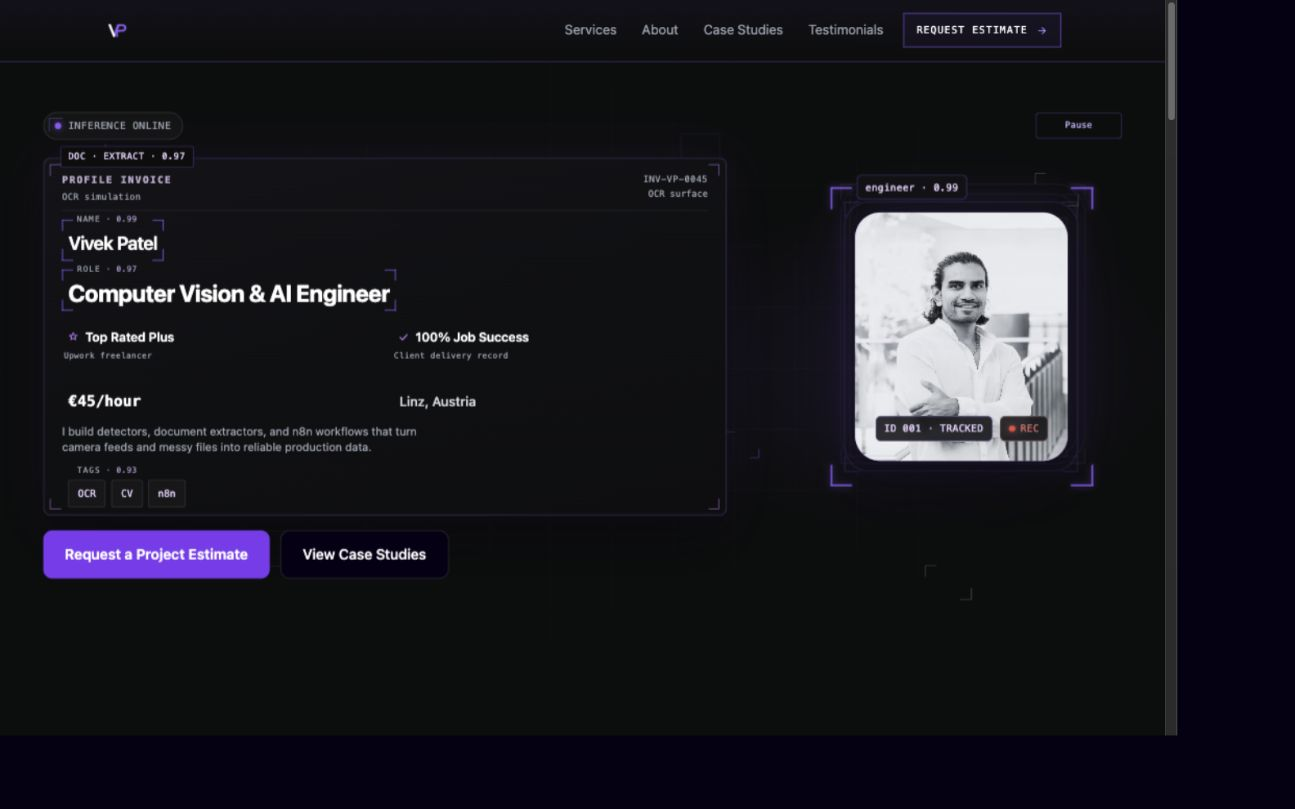
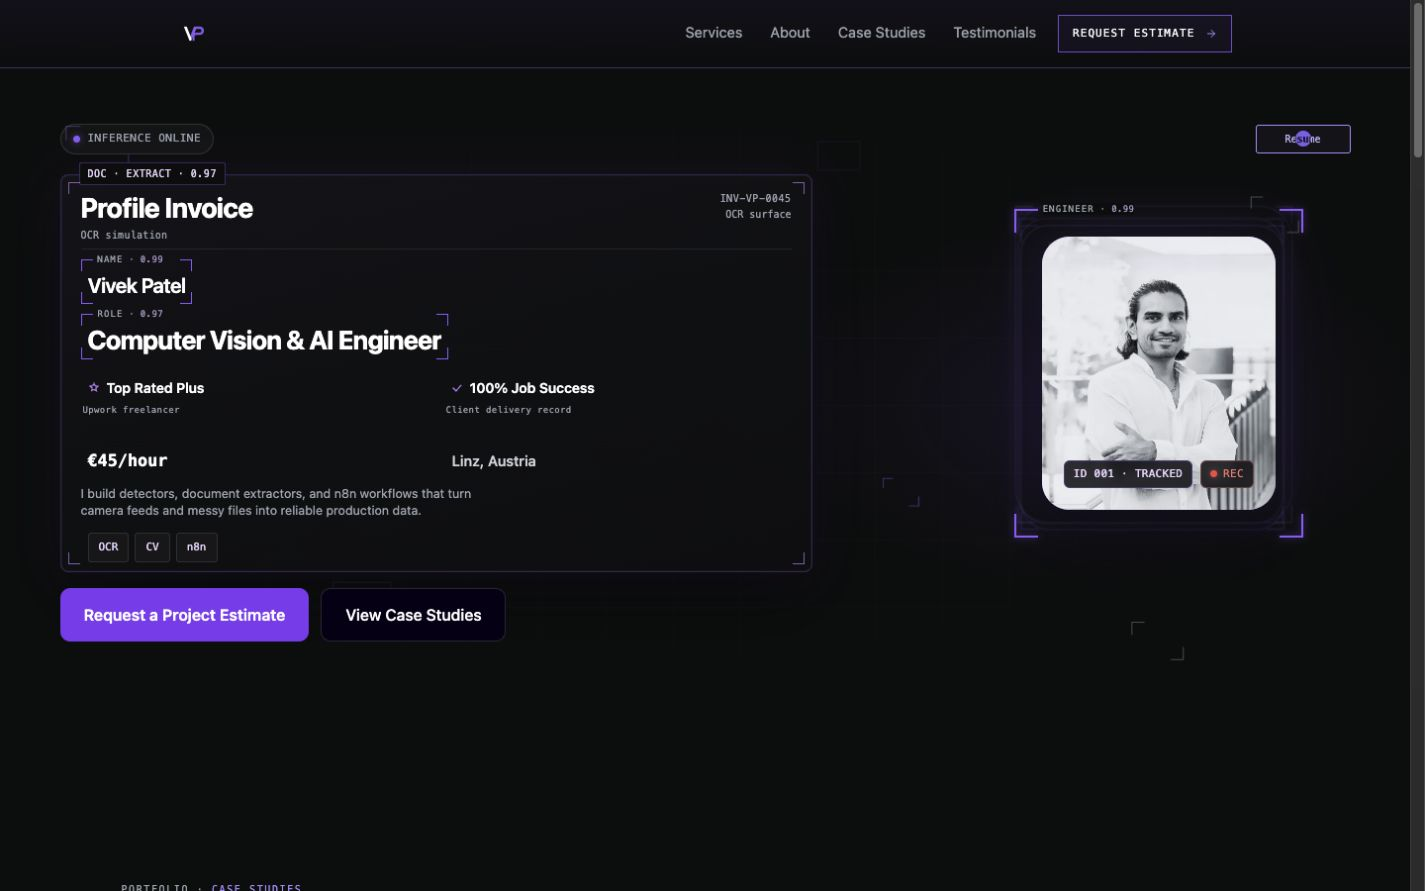
fix(hero): clarify invoice title and static annotations

diff --git a/tests/qa/qa-hero-ocr-labels.spec.js b/tests/qa/qa-hero-ocr-labels.spec.js
@@ -7,7 +7,6 @@ const expectedLabels = [
   'Success · 0.96',
   'Rate · 0.95',
   'Location · 0.94',
-  'Tags · 0.93',
 ];
 
 const selections = [
@@ -42,6 +41,11 @@ for (const { width, height } of viewports) {
       await page.clock.pauseAt(new Date('2026-10-03T08:00:01Z'));
       const invoice = page.getByRole('article', { name: 'Profile invoice field parse' });
       await expect(invoice.getByText('OCR simulation', { exact: true })).toBeVisible();
+      await expect(page.getByRole('heading', { level: 1 })).toHaveCount(1);
+      await expect(invoice.getByText('Tags · 0.93', { exact: true })).toHaveCount(0);
+      for (const tag of ['OCR', 'CV', 'n8n']) await expect(invoice.getByText(tag, { exact: true })).toBeVisible();
+      const titleSize = await invoice.getByText('Profile Invoice', { exact: true }).evaluate((title) => Number.parseFloat(getComputedStyle(title).fontSize));
+      expect(titleSize).toBeGreaterThanOrEqual(width >= 1024 ? 28 : 20);
       const hero = page.locator('section[data-hero-highlight-index]');
       await expect(hero).toHaveAttribute('data-hero-highlight-index', '0');
       await page.getByRole('button', { name: 'Pause highlights', exact: true }).click();
@@ -72,7 +76,7 @@ for (const { width, height } of viewports) {
         };
       }));
 
-      expect(measurements).toHaveLength(7);
+      expect(measurements).toHaveLength(6);
       expect(measurements.filter((field) => field.highlighted).map((field) => field.id).sort()).toEqual([...selected].sort());
       for (const field of measurements) {
         expect(field.leftClearance, `${field.id} left stroke clearance`).toBeCloseTo(17, 1);
@@ -80,13 +84,10 @@ for (const { width, height } of viewports) {
         expect(field.valueGap, `${field.id} value stays below label`).toBeGreaterThanOrEqual(1.9);
         expect(field.valueLeft, `${field.id} value inside left frame`).toBeGreaterThanOrEqual(6.9);
         expect(field.valueRight, `${field.id} value inside right frame`).toBeGreaterThanOrEqual(6.9);
-        if (field.id !== 'tags') {
-          expect(field.columnLeft, `${field.id} stays in its column`).toBeGreaterThanOrEqual(-0.1);
-          expect(field.columnRight, `${field.id} stays in its column`).toBeGreaterThanOrEqual(-0.1);
-        }
+        expect(field.columnLeft, `${field.id} stays in its column`).toBeGreaterThanOrEqual(-0.1);
+        expect(field.columnRight, `${field.id} stays in its column`).toBeGreaterThanOrEqual(-0.1);
         if (field.highlighted) expect(field.labelCenter).toBeCloseTo(field.cornerTop, 1);
-        expect(field.labelOpacity, `${field.id} annotation visibility`).toBe(selected.includes(field.id) || field.id === 'tags' ? 1 : 0);
-        if (field.id === 'tags') expect(field.highlighted).toBe(false);
+        expect(field.labelOpacity, `${field.id} annotation visibility`).toBe(selected.includes(field.id) ? 1 : 0);
       }
       expect(await page.evaluate(() => document.documentElement.scrollWidth <= innerWidth)).toBe(true);
 
@@ -103,6 +104,8 @@ for (const { width, height } of viewports) {
       expect(labelsAfter).toEqual(labelsBefore);
 
       const portraitTag = page.getByText('engineer · 0.99', { exact: true });
+      const appearance = await portraitTag.evaluate((tag) => ({ border: getComputedStyle(tag).borderTopWidth, radius: getComputedStyle(tag).borderRadius, label: tag.classList.contains('hero-field-label') }));
+      expect(appearance).toEqual({ border: '0px', radius: '0px', label: true });
       const tag = await portraitTag.boundingBox();
       const frame = await portraitTag.locator('..').boundingBox();
       expect(tag.x - frame.x).toBeCloseTo(29, 1);
@@ -156,13 +159,13 @@ test.describe('animated OCR experiment', () => {
       await expect.poll(async () => (await annotationState(page)).filter((field) => field.selected).map((field) => field.labelOpacity), { intervals: [20] }).toEqual([1, 1]);
       const state = await annotationState(page);
       expect(state.filter((field) => field.selected).map((field) => field.id).sort()).toEqual([...selections[index]].sort());
-      expect(state.filter((field) => field.id !== 'tags' && field.labelOpacity > 0)).toHaveLength(2);
+      expect(state.filter((field) => field.labelOpacity > 0)).toHaveLength(2);
       for (const field of state) {
         expect(field.valueOpacity).toBe(1);
-        if (field.id !== 'tags') expect(field.cornerOpacity).toBeCloseTo(field.labelOpacity, 2);
+        expect(field.cornerOpacity).toBeCloseTo(field.labelOpacity, 2);
       }
       expect(await fieldBounds(page)).toEqual(initialBounds);
-      await expect(page.locator('.hero-field-label')).toHaveText(expectedLabels);
+      await expect(page.locator('article .hero-field-label')).toHaveText(expectedLabels);
     }
     const sampled = await page.evaluate(() => {
       window.__heroPairProbe.active = false;
@@ -201,7 +204,7 @@ test('annotation controls freeze, resume, and honor reduced motion and offscreen
   await expect(hero).toHaveAttribute('data-hero-highlights', 'paused');
   await page.clock.runFor(10000);
   await expect(hero).toHaveAttribute('data-hero-highlight-index', '0');
-  await expect(page.locator('.hero-field-label')).toHaveText(expectedLabels);
+  await expect(page.locator('article .hero-field-label')).toHaveText(expectedLabels);
 
   await page.emulateMedia({ reducedMotion: 'no-preference' });
   await page.getByRole('contentinfo').scrollIntoViewIfNeeded();

diff --git a/src/components/Hero.test.jsx b/src/components/Hero.test.jsx
@@ -128,7 +128,7 @@ describe('Hero invoice proof fold (#176)', () => {
   it('hides decorative portrait tracking chips from assistive technology', () => {
     renderHero();
 
-    ['engineer · 0.99', 'ID 001 · TRACKED', 'REC'].forEach((label) => {
+    ['engineer', 'ID 001 · TRACKED', 'REC'].forEach((label) => {
       expect(screen.getByText(label, { exact: true }).closest('[aria-hidden="true"]')).toBeTruthy();
     });
   });
@@ -155,7 +155,6 @@ describe('Hero illustrative OCR labels (#297)', () => {
     success: ['Success', '0.96'],
     rate: ['Rate', '0.95'],
     location: ['Location', '0.94'],
-    tags: ['Tags', '0.93'],
   };
 
   it('attaches the fixed label and decorative score to each field', () => {
@@ -171,7 +170,9 @@ describe('Hero illustrative OCR labels (#297)', () => {
     });
     expect(screen.getByText('OCR simulation', { exact: true })).toBeTruthy();
     expect(container.querySelectorAll('.invoice-field-corners')).toHaveLength(2);
-    expect(container.querySelector('[data-hero-field="tags"]').classList.contains('invoice-field-corners')).toBe(false);
+    expect(container.querySelector('[data-hero-field="tags"]')).toBeNull();
+    expect(screen.queryByText('Tags', { exact: true })).toBeNull();
+    ['OCR', 'CV', 'n8n'].forEach((tag) => expect(screen.getByText(tag, { exact: true })).toBeTruthy());
   });
 
   it('keeps all scores fixed across pointer interaction and reduced motion', () => {
@@ -183,9 +184,9 @@ describe('Hero illustrative OCR labels (#297)', () => {
       removeEventListener: (_event, listener) => listeners.delete(listener),
     }));
     const { container } = renderHero();
-    const getLabels = () => Array.from(container.querySelectorAll('.hero-field-label'), (label) => label.textContent);
+    const getLabels = () => Array.from(container.querySelectorAll('article .hero-field-label'), (label) => label.textContent);
     const before = getLabels();
-    expect(before).toHaveLength(7);
+    expect(before).toHaveLength(6);
     fireEvent.mouseMove(container.querySelector('section'), { clientX: 100, clientY: 100 });
     act(() => {
       reducedMotion = true;
@@ -281,12 +282,12 @@ describe('Hero rotating annotations', () => {
   it('starts with two annotations while every factual value and all label rows remain mounted', () => {
     const { container } = renderHero();
     expect(ids(container)).toEqual(expected(0));
-    expect(container.querySelectorAll('[data-hero-field]')).toHaveLength(7);
-    expect(container.querySelectorAll('.hero-field-label')).toHaveLength(7);
+    expect(container.querySelectorAll('[data-hero-field]')).toHaveLength(6);
+    expect(container.querySelectorAll('article .hero-field-label')).toHaveLength(6);
     const values = ['Vivek Patel', 'Computer Vision & AI Engineer', 'Top Rated Plus', '100% Job Success', '€45/hour', 'Linz, Austria'];
     values.forEach((value) => expect(screen.getByText(value, { exact: true }).closest('.hero-field-value').style.opacity).toBe(''));
     HERO_INVOICE_FIELDS.forEach((id) => expect(opacity(container, id)).toBe(HERO_DETECTED_FIELD_WINDOWS[0].includes(id) ? '1' : '0'));
-    expect(container.querySelector('[data-hero-field="tags"]').classList.contains('hero-rotating-annotation')).toBe(false);
+    expect(container.querySelector('[data-hero-field="tags"]')).toBeNull();
     expect(container.querySelector('[data-hero-field="rate"]').classList.contains('hero-rotating-annotation')).toBe(true);
     expect(vi.getTimerCount()).toBe(1);
   });
@@ -320,7 +321,7 @@ describe('Hero rotating annotations', () => {
 
   it('cycles through all three row pairs and preserves fixed scores, mounted labels and values', () => {
     const { container } = renderHero();
-    const labels = [...container.querySelectorAll('.hero-field-label')];
+    const labels = [...container.querySelectorAll('article .hero-field-label')];
     const values = [...container.querySelectorAll('.hero-field-value')];
     const scores = labels.map((label) => label.textContent);
     for (let step = 1; step <= 3; step += 1) {
@@ -328,7 +329,7 @@ describe('Hero rotating annotations', () => {
       advance(100);
       advance(100);
       expect(ids(container)).toEqual(expected(step % 3));
-      expect([...container.querySelectorAll('.hero-field-label')]).toEqual(labels);
+      expect([...container.querySelectorAll('article .hero-field-label')]).toEqual(labels);
       expect([...container.querySelectorAll('.hero-field-value')]).toEqual(values);
       expect(labels.map((label) => label.textContent)).toEqual(scores);
       expect(container.querySelectorAll('.invoice-field-corners')).toHaveLength(2);

diff --git a/src/components/Hero.jsx b/src/components/Hero.jsx
@@ -26,7 +26,6 @@ const OCR_FIELD_LABELS = {
   success: { label: 'Success', score: '0.96' },
   rate: { label: 'Rate', score: '0.95' },
   location: { label: 'Location', score: '0.94' },
-  tags: { label: 'Tags', score: '0.93' },
 };
 
 const FieldLabel = ({ field }) => (
@@ -321,7 +320,7 @@ const Hero = () => {
                 {/* Header */}
                 <div className="flex justify-between items-start mb-1 pb-1.5 border-b border-white/[0.08] max-md:mb-1 max-md:pb-1">
                   <div>
-                    <div className="font-mono text-[11px] font-semibold tracking-[0.14em] uppercase text-purple-200/[0.78]">Profile Invoice</div>
+                    <div className="text-[clamp(1.25rem,2.4vw,1.75rem)] font-bold tracking-tight leading-[1.2] text-white">Profile Invoice</div>
                     <div className="mt-1 font-mono text-[10px] text-gray-400 tracking-wide">OCR simulation</div>
                   </div>
                   <div className="text-right font-mono text-[10px] leading-relaxed text-gray-400">
@@ -411,19 +410,16 @@ const Hero = () => {
                   </p>
                 </div>
 
-                {/* Tags field */}
-                <div data-hero-field="tags" className="hero-ocr-field">
-                  <FieldLabel field="tags" />
-                  <span className="hero-field-value inline-flex flex-wrap gap-1.5">
-                    {['OCR', 'CV', 'n8n'].map((tag) => (
-                      <span
-                        key={tag}
-                        className="font-mono text-[11px] text-purple-200 px-2.5 py-1.5 rounded-[3px] border border-white/[0.1] bg-white/[0.03]"
-                      >
-                        {tag}
-                      </span>
-                    ))}
-                  </span>
+                {/* Static topic chips */}
+                <div className="inline-flex flex-wrap gap-1.5 px-[7px] py-[3px]">
+                  {['OCR', 'CV', 'n8n'].map((tag) => (
+                    <span
+                      key={tag}
+                      className="font-mono text-[11px] text-purple-200 px-2.5 py-1.5 rounded-[3px] border border-white/[0.1] bg-white/[0.03]"
+                    >
+                      {tag}
+                    </span>
+                  ))}
                 </div>
               </article>
             </div>
@@ -482,8 +478,8 @@ const Hero = () => {
 
                 {/* Purple L-brackets (static on top) */}
                 <div className="absolute inset-1 pointer-events-none z-[3]" aria-hidden="true">
-                  <div className="absolute top-0 left-[29px] -translate-y-1/2 z-[4] inline-flex items-center gap-1.5 px-[9px] py-[5px] rounded-md bg-[rgba(18,18,22,0.88)] border border-[#8B5CF6]/35 font-mono text-[11px] text-purple-200 tracking-wide backdrop-blur-sm whitespace-nowrap max-md:text-[10px] max-md:px-2 max-md:py-1">
-                    engineer · 0.99
+                  <div className="hero-field-label absolute top-0 left-[29px] -translate-y-1/2 z-[4] [--hero-label-height:12px] bg-[#0C0D0D]">
+                    engineer<span className="hero-field-score"> · 0.99</span>
                   </div>
                   <span className="absolute top-0 left-0 w-6 h-6 border-l-[2.5px] border-t-[2.5px] border-[#8B5CF6]" style={{ filter: 'drop-shadow(0 0 4px rgba(139,92,246,0.55))' }} />
                   <span className="absolute top-0 right-0 w-6 h-6 border-r-[2.5px] border-t-[2.5px] border-[#8B5CF6]" style={{ filter: 'drop-shadow(0 0 4px rgba(139,92,246,0.55))' }} />

diff --git a/docs/qa/hero-ocr-labels-297.md b/docs/qa/hero-ocr-labels-297.md
@@ -10,15 +10,17 @@ Vivek requested two bounding boxes at a time, moving down the invoice card and r
 2. Credential and Success.
 3. Rate and Location.
 
-Pair changes follow a two-second cadence. Both outgoing annotations fade out over 100ms; then both incoming annotations fade in over 100ms. Boxes, labels, and fixed confidence scores share opacity. All actual values, the Role h1, and actions remain visible and stationary. Tags remains static and unboxed.
+Pair changes follow a two-second cadence. Both outgoing annotations fade out over 100ms; then both incoming annotations fade in over 100ms. Boxes, labels, and fixed confidence scores share opacity. All actual values, the Role h1, and actions remain visible and stationary. OCR, CV, and n8n remain visible as static secondary chips, without an extraction label or score.
 
 This experiment supersedes the earlier three-highlight cycle, the Rate exclusion, and the requirement that inactive labels remain visible. It records the latest decision against the guide's OC-02 and MO-01 rules. The guide itself remains in the separate documentation PR [#299](https://github.com/vivekpatel99/my-portfolio-webisite/pull/299). This is an experiment for visual review, with permanent frames available as a later alternative.
 
 ## Label and portrait attachment
 
-All seven invoice labels retain their fixed illustrative confidence scores. The header says `OCR simulation`. Each field uses one intrinsic grid for its label and value. A label begins 17 CSS pixels from the frame's left edge, leaving a 5px gap after its 12px corner stroke. Its 12px line box is centered on the 6px top-edge guide. Hidden annotations keep their reserved row and geometry.
+The six rotating invoice labels retain their fixed illustrative confidence scores. `Tags · 0.93` is removed because the topic chips are not detected fields. The header says `OCR simulation`. Each field uses one intrinsic grid for its label and value. A label begins 17 CSS pixels from the frame's left edge, leaving a 5px gap after its 12px corner stroke. Its 12px line box is centered on the 6px top-edge guide. Hidden annotations keep their reserved row and geometry.
 
-The portrait tag begins 29px from the strongest outer frame's left edge, leaving a 5px gap after its 24px stroke. Its vertical center matches that frame guide within half a CSS pixel. Lower badges, portrait source, factual values, h1, invoice outer padding, and action destinations remain intact.
+The portrait tag begins 29px from the strongest outer frame's left edge, leaving a 5px gap after its 24px stroke. Its vertical center matches that frame guide within half a CSS pixel. The engineer annotation now uses the same plain grey label and quieter score treatment as the invoice fields, with no outlined badge, rounded box, padding, or blur. Lower badges, portrait source, factual values, h1, invoice outer padding, and action destinations remain intact.
+
+`Profile Invoice` is now a bold white sans title, 28px on the reviewed desktop viewport, above the role's 26.4px text. It remains a div; `Computer Vision & AI Engineer` remains the single semantic page h1.
 
 Confidence scores are display constants. Rotation changes the selected annotations, never their numbers. There is no OCR service, tracking event, or new network request.
 
@@ -39,20 +41,20 @@ Vivek requested desktop/laptop verification only until the animation direction i
 - Existing desktop hero motion checks pass. One coarse-pointer test is intentionally skipped on the desktop fine-pointer configuration.
 - Direct Codex-browser interaction confirmed the two selected field wrappers and Pause/Resume state. The same desktop preview is available for feedback.
 
-The desktop batch passes 10 cases with one expected skip. After the independent Spec review requested handoff sampling, the augmented real-cycle test passes again.
+The earlier desktop batch passed 10 cases with one expected skip. For this cleanup, all five targeted annotation cases pass at 1440 × 900, including the three pair states, per-frame handoff sampling, keyboard Pause/Resume, reduced motion, and offscreen suspension. This pass also checks the enlarged title, single h1, static chips, absence of Tags metadata, and border-free portrait label. Desktop hero motion tests were run on the earlier experiment, not repeated for this styling cleanup.
 
 ## Automated verification and review
 
 The full unit suite passes all 828 tests in 68 files, including timer cleanup during both fade phases, hidden/offscreen state, live reduced motion, and unmount. The production build passes image derivative checks, bundling, sitemap generation, and static output checks for 36 public links and 21 routes. Scoped ESLint and `git diff --check` pass.
 
-Independent Standards and Spec reviews found no remaining actionable findings. The Spec reviewer identified the missing per-frame handoff proof; it was added and verified. The added-comment review found zero added comments.
+Fresh independent Standards and Spec reviews cover this cleanup before commit. The Spec review prompted the final title hierarchy adjustment, followed by a build and desktop-check confirmation. The scoped Impeccable detector reports no findings. No animation logic changes are included.
 
 The Model the Domain principle led to an explicit row-pair table and local phase state. The Prove It Works principle led to real desktop frame sampling and direct control interaction.
 
 To repeat only the final desktop annotation checks after starting a loopback production preview:
 
 ```sh
-QA_LOCAL_ONLY=1 QA_PREVIEW_URL=http://127.0.0.1:4308 npx playwright test -c tests/qa/qa.config.js --project preview-desktop --grep 'OCR labels stay attached at 1440x900|three-pair cycle|annotation controls'
+QA_LOCAL_ONLY=1 QA_PREVIEW_URL=http://127.0.0.1:4310 npx playwright test -c tests/qa/qa.config.js --project preview-desktop --grep 'OCR labels stay attached at 1440x900|three-pair cycle|annotation controls'
 ```
 
 ## Deferred acceptance
@@ -63,11 +65,11 @@ Keep both issues open with `Refs #297` and `Refs #292` while visual agreement an
 
 ## Visual evidence
 
-The desktop screenshot captures one state of the current two-box experiment. The clip shows the complete top-to-bottom cycle.
+The desktop screenshot captures the current cleanup in the Name/Role state. The earlier clip shows the unchanged top-to-bottom cycle before the title, engineer-label, and Tags cleanup; it does not show those final visual changes.
 
 ![Current desktop two-box annotation experiment](hero-ocr-labels-297/after-desktop.jpg)
 
-[Desktop animation clip](hero-ocr-labels-297/desktop-animation.webm)
+[Earlier desktop animation clip, before visual cleanup](hero-ocr-labels-297/desktop-animation.webm)
 
 ### Original desktop baseline
 
@@ -84,3 +86,7 @@ The following mobile and tablet captures record the earlier label-attachment imp
 ![Earlier tablet label attachment](hero-ocr-labels-297/after-tablet.jpg)
 
 ![Earlier 320px label attachment](hero-ocr-labels-297/after-narrow.jpg)
+
+## Cleanup delivery scope
+
+The cleanup continues draft PR #300 on `codex/297-hero-ocr-labels`, from `195cd720a378adb3a85b5c3a35f5ccaa02a38124`. The baseline and recovery material in `/private/tmp/hero-297-Q7c4` and its parent-owned preview process are preserved. A separate feedback preview is retained at `http://127.0.0.1:4310/`, using `/private/tmp/hero-cleanup-300-rbrV/after-dist`. Its task directory keeps the captured dirty-state baseline and ownership record while feedback remains pending. Disposable verification logs and runner configuration are removed after delivery. The ignored local `dist/` directory was rebuilt; no tracked generated output is added. Pre-existing untracked files remain untouched.
